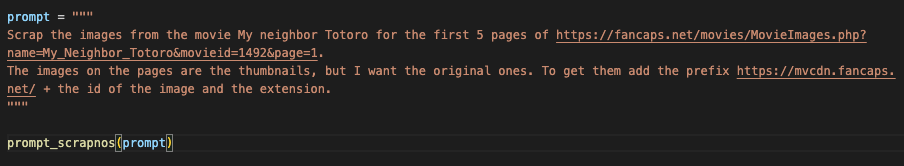
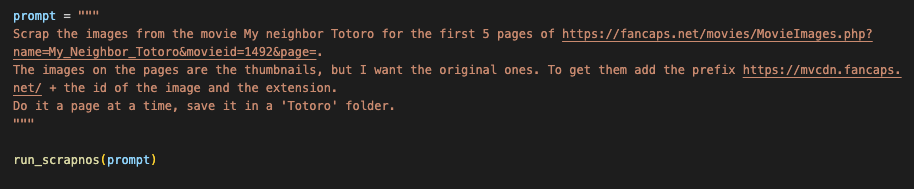
screen

Changed region(s): [[0.0, 0.0602, 0.9912, 0.6627], [0.0, 0.8133, 0.2168, 0.9036]]

diff --git a/main.py b/main.py
@@ -6,7 +6,7 @@ import functions_calling as fc
 from models.llm_api import LLM_API
 
 
-def prompt_scrapnos(prompt):
+def run_scrapnos(prompt):
     load_dotenv()
     gemini = LLM_API(
         model="gemini-2.0-flash-exp",
@@ -26,10 +26,8 @@ def prompt_scrapnos(prompt):
 
 prompt = """
 Scrap the images from the movie My neighbor Totoro for the first 5 pages of https://fancaps.net/movies/MovieImages.php?name=My_Neighbor_Totoro&movieid=1492&page=.
-The images on the pages are the thumbnails, but I want the original ones. To get them add the prefix https://mvcdn.fancaps.net/ + the id of the image and the extension. Do it a page at a time, save it in a 'Totoro' folder.
+The images on the pages are the thumbnails, but I want the original ones. To get them add the prefix https://mvcdn.fancaps.net/ + the id of the image and the extension. 
+Do it a page at a time, save it in a 'Totoro' folder.
 """
 
-# prompt = "Imagine a detailed workflow to write a novel with LLMs based on an user request. You have to take into account the constraints of the LLMs, which are the limited length for input and output they can read/write. So you need to split the process into a multi steps workflow, while trying to keep a coherent narrative, close to the idea of the user request. Write detailed system prompts needed into different files. Reread each of these system prompts to be sure they are detailed enough. Then write a python script to use this workflow, taking an user input the going through each steps and saving results (let's use MockLlmService in the code for now)."
-
-
-prompt_scrapnos(prompt)
+run_scrapnos(prompt)
